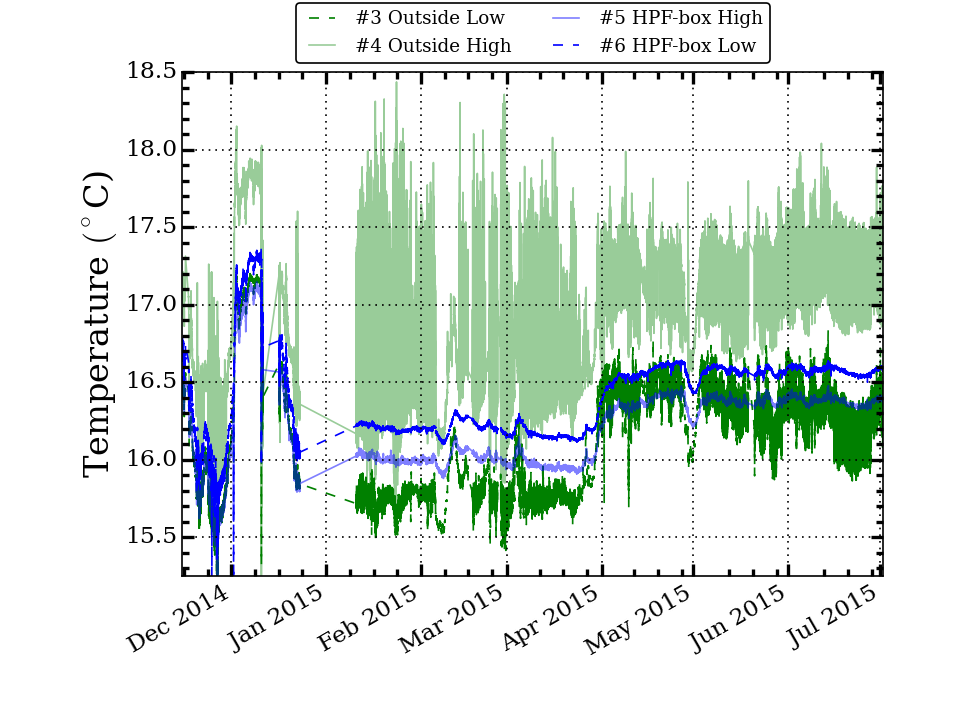
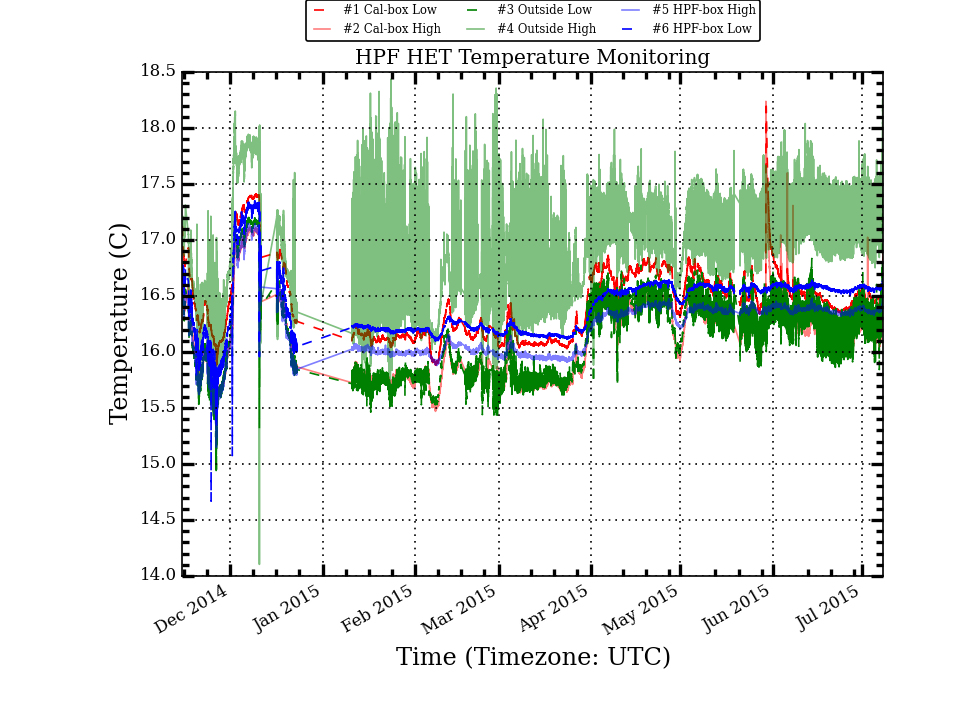
Update HPF Temp Plots

diff --git a/research/hpf_temps/plots/LakeShoreLogTotal_stats.html b/research/hpf_temps/plots/LakeShoreLogTotal_stats.html
@@ -10,54 +10,54 @@
  </TR>
  <TR>
   <TD>Cal_Low</TD>
-  <TD>16.442</TD>
-  <TD>0.329</TD>
-  <TD>16.428</TD>
+  <TD>16.443</TD>
+  <TD>0.325</TD>
+  <TD>16.443</TD>
   <TD>18.195</TD>
   <TD>15.840</TD>
   <TD>2.355</TD>
  </TR>
  <TR>
   <TD>Cal_High</TD>
-  <TD>16.094</TD>
-  <TD>0.354</TD>
-  <TD>16.068</TD>
+  <TD>16.096</TD>
+  <TD>0.349</TD>
+  <TD>16.085</TD>
   <TD>18.238</TD>
   <TD>15.410</TD>
   <TD>2.828</TD>
  </TR>
  <TR>
   <TD>Out_Low</TD>
-  <TD>16.135</TD>
-  <TD>0.378</TD>
-  <TD>16.148</TD>
-  <TD>17.201</TD>
+  <TD>16.140</TD>
+  <TD>0.376</TD>
+  <TD>16.167</TD>
+  <TD>17.379</TD>
   <TD>14.942</TD>
-  <TD>2.259</TD>
+  <TD>2.437</TD>
  </TR>
  <TR>
   <TD>Out_High</TD>
-  <TD>16.915</TD>
+  <TD>16.926</TD>
   <TD>0.458</TD>
-  <TD>16.963</TD>
+  <TD>16.984</TD>
   <TD>18.436</TD>
   <TD>14.104</TD>
   <TD>4.332</TD>
  </TR>
  <TR>
   <TD>HPF_High</TD>
-  <TD>16.211</TD>
-  <TD>0.273</TD>
-  <TD>16.268</TD>
+  <TD>16.215</TD>
+  <TD>0.271</TD>
+  <TD>16.299</TD>
   <TD>17.147</TD>
   <TD>15.149</TD>
   <TD>1.998</TD>
  </TR>
  <TR>
   <TD>HPF_Low</TD>
-  <TD>16.408</TD>
-  <TD>0.271</TD>
-  <TD>16.463</TD>
+  <TD>16.413</TD>
+  <TD>0.269</TD>
+  <TD>16.488</TD>
   <TD>17.356</TD>
   <TD>14.668</TD>
   <TD>2.688</TD>
